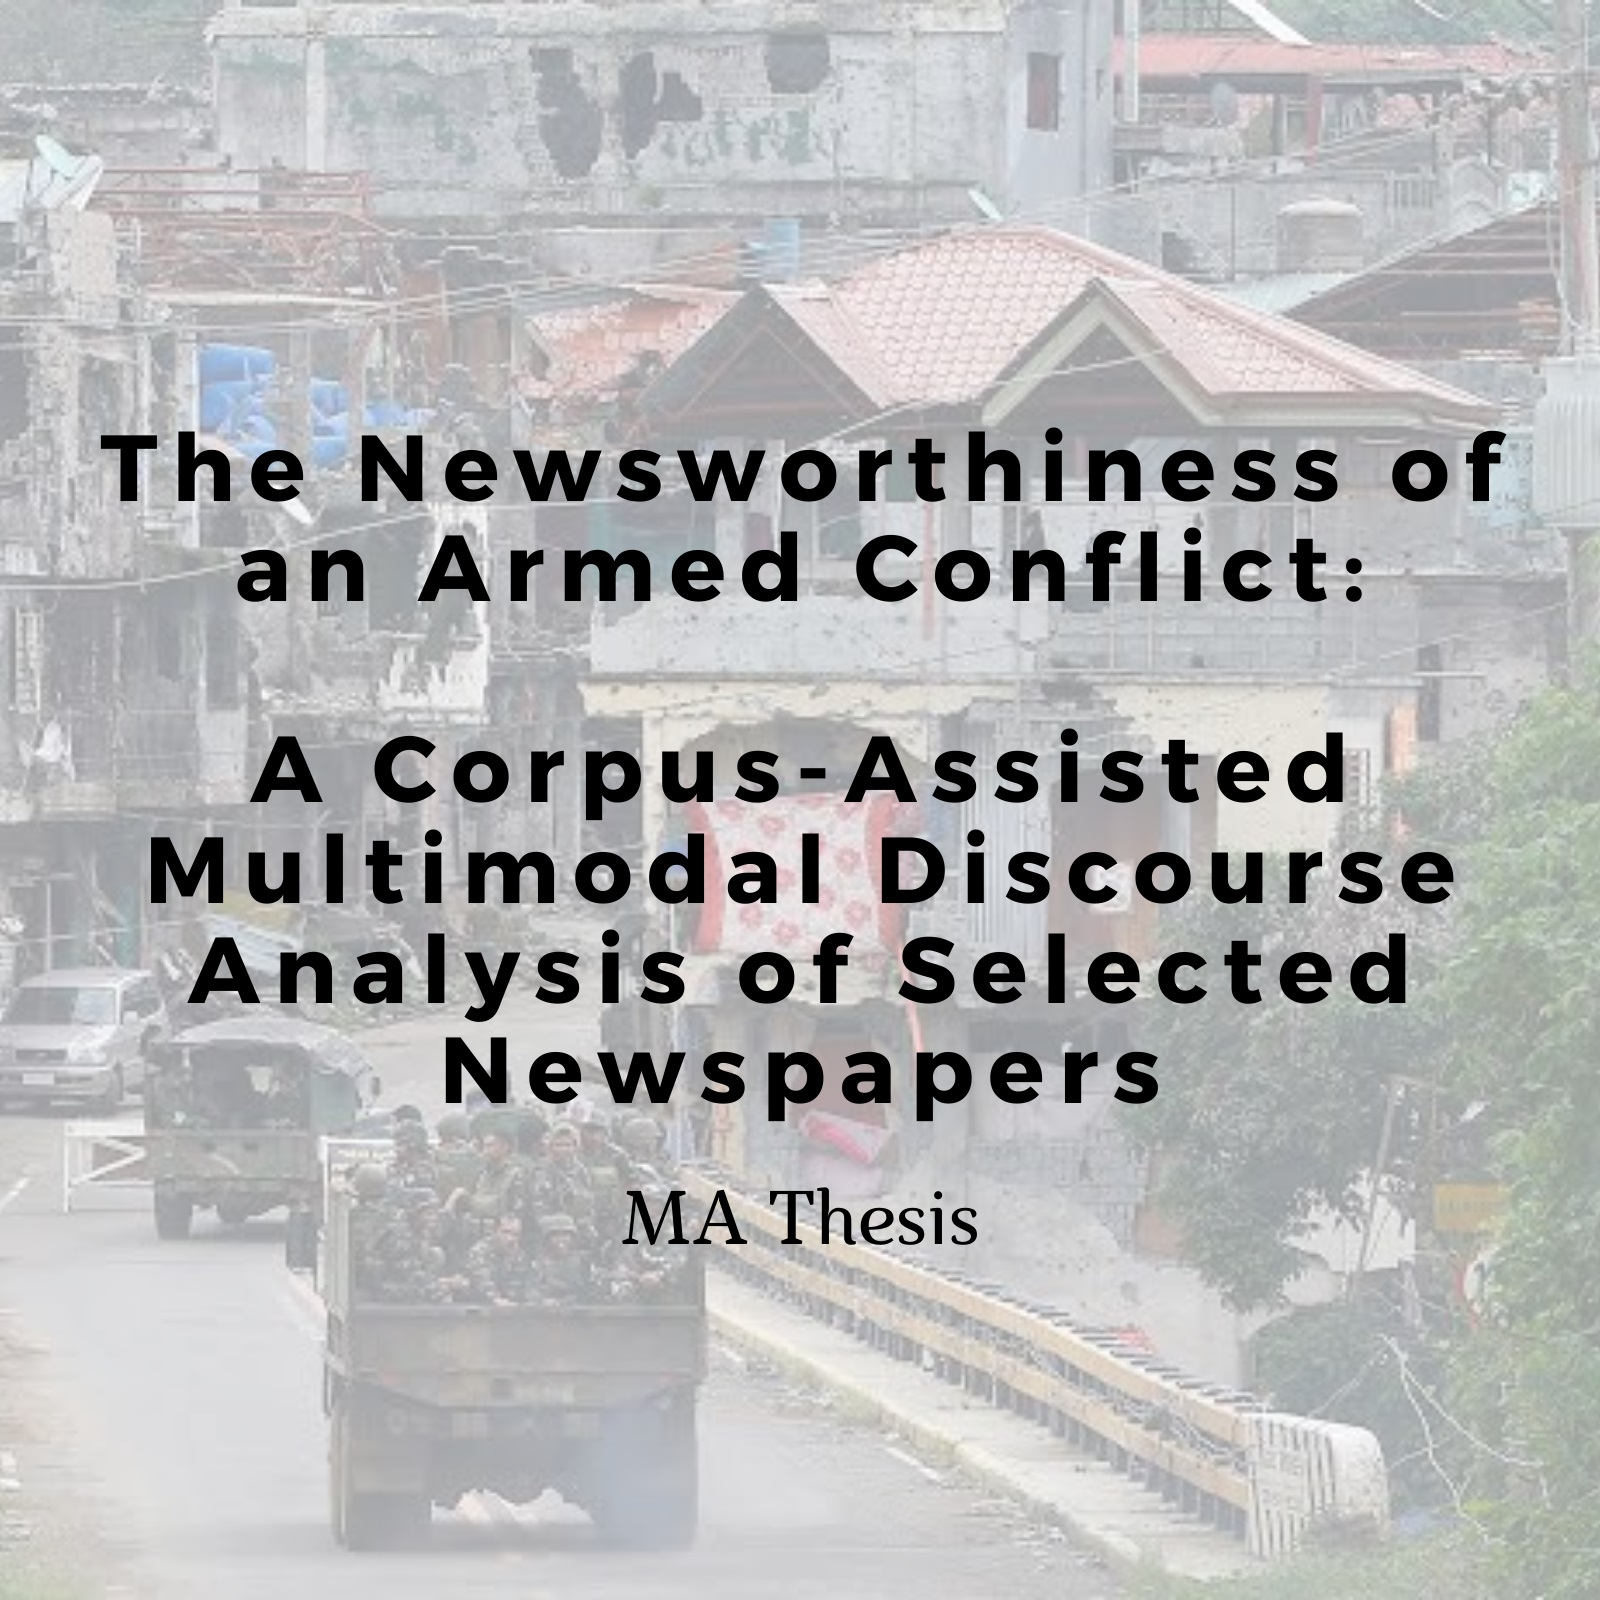
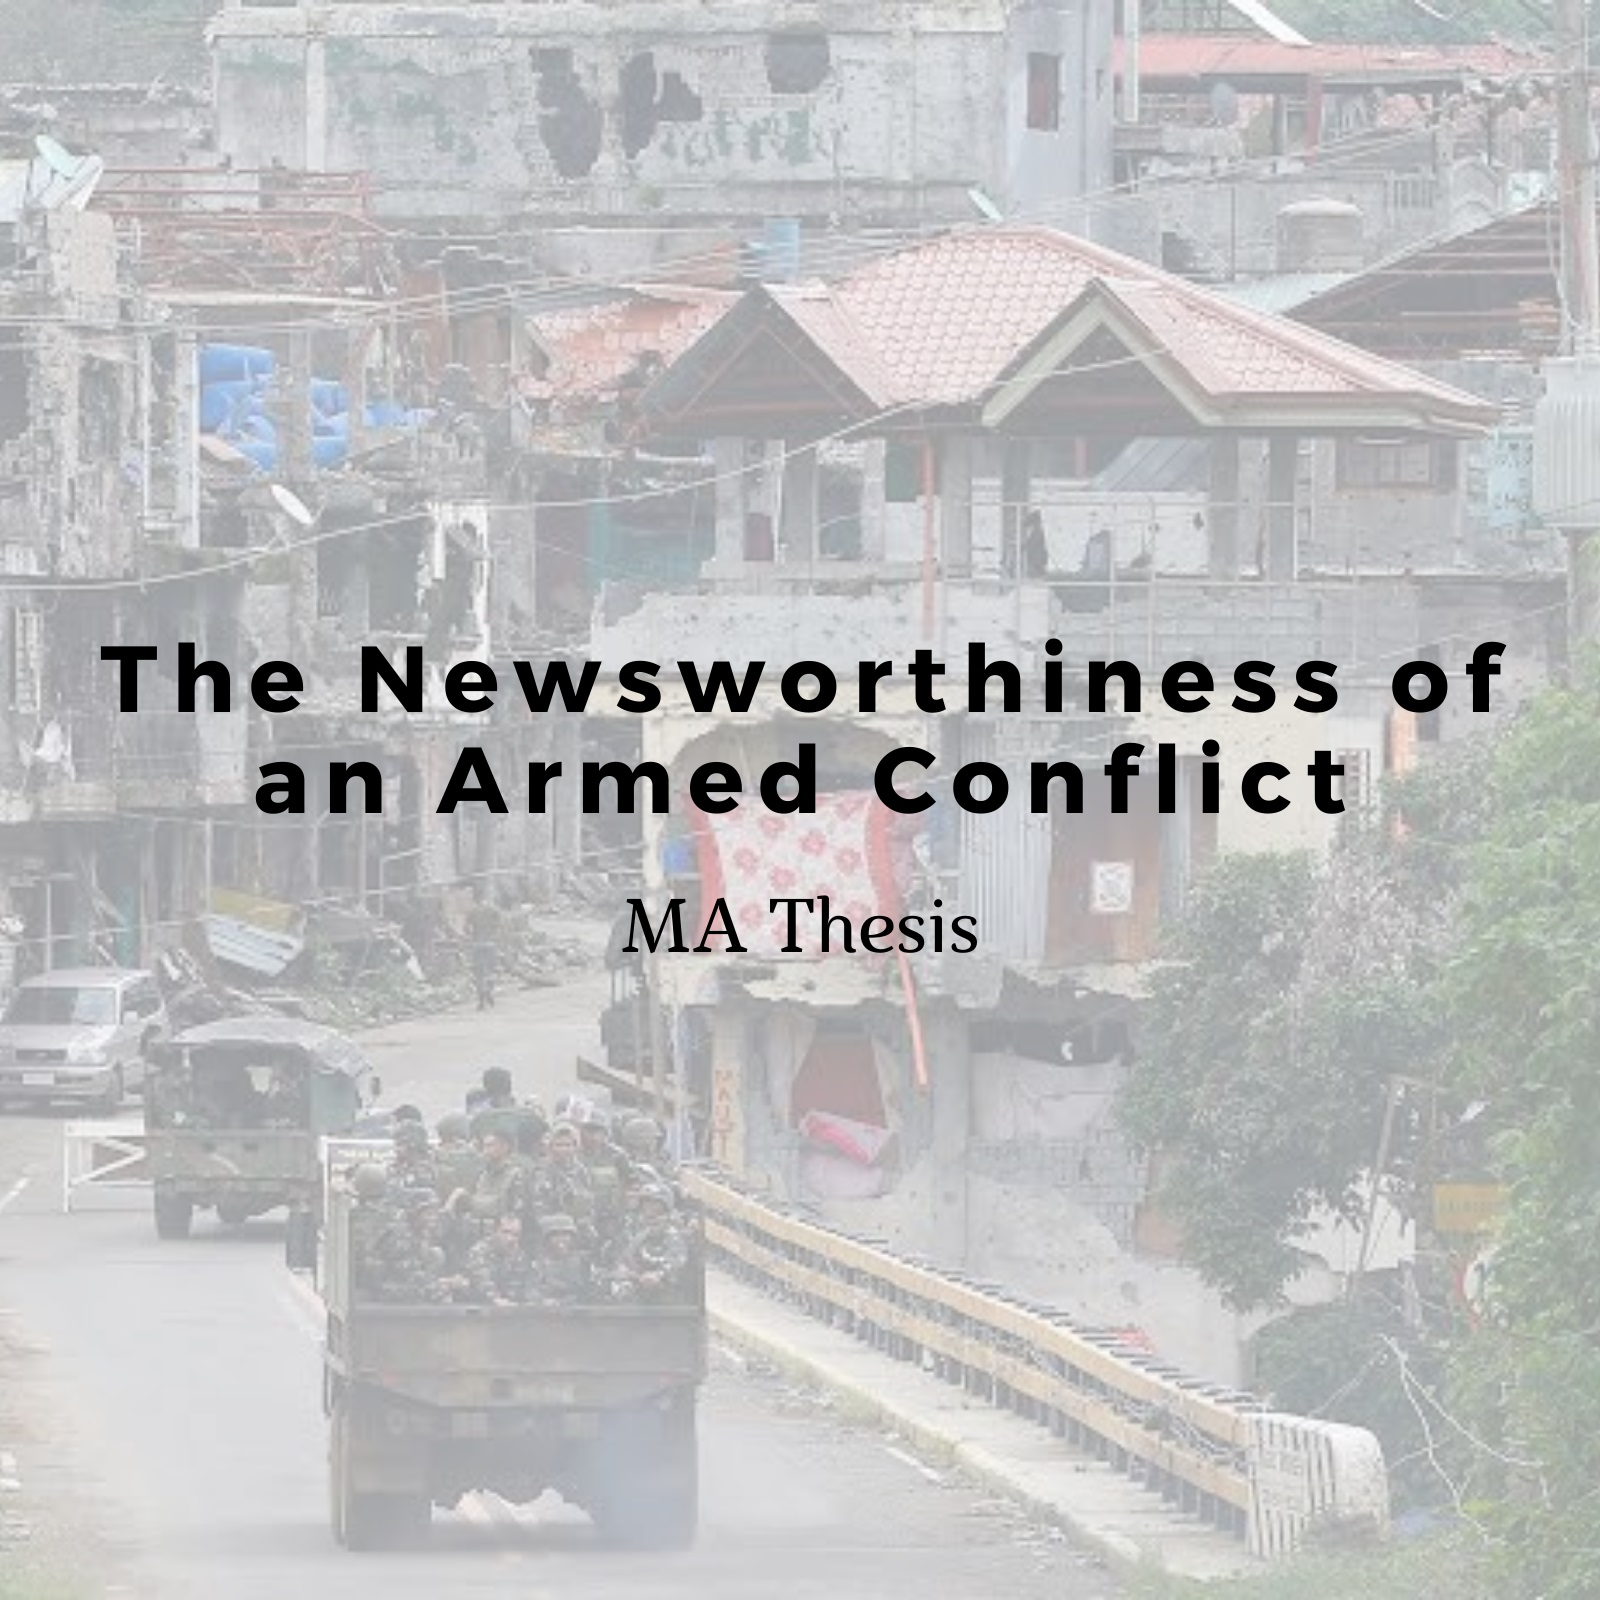
revisions june 16

diff --git a/_projects/2020-07-20-dnva-marawi-siege.md b/_projects/2020-07-20-dnva-marawi-siege.md
@@ -1,26 +1,30 @@
 ---
-title: 'The Newsworthiness of an Armed Conflict - A Corpus-Assisted Multimodal Discourse Analysis of Selected Newspaper Reports'
-subtitle: 'MA Thesis, The Graduate School, University of Santo Tomas'
+title: 'The Newsworthiness of an Armed Conflict'
+subtitle: 'A Corpus-Assisted Multimodal Discourse Analysis of Selected Newspaper Reports'
 date: 2018-06-30 00:00:00
 featured_image: '/images/projects/marawidnva.jpg'
 ---
 
+This project was my thesis for my Master of Arts degree in English Language Studies at the University of Santo Tomas Graduate School. It received a *Benemeritus* distinction during the defense proceedings. 
+
 **Supervisor:** Dr. Rachelle B. Lintao
 
 **Committee:** Drs. Marilu R. Madrunio (chair), Alejandro S. Bernardo, and Eden R. Flores (external reader, De La Salle University)
-
-**Awarded *Benemeritus* (with distinction) after the defense**
 
 ### Abstract 
 The reporting of both terrorism and conflicts is extensively investigated in past media discourse studies across contexts. However, a dearth in the literature exists regarding newsworthiness and its establishment in various forms of news discourse. Based on this niche, this thesis sought to closely examine how the 2017 Marawi City siege is constructed in print news reports as newsworthy. Specifically, it was aimed at determining (a) the linguistic and visual resources used to construe newsworthiness, (b) the news values used to construe the event’s newsworthiness, and (c) the existing multimodal relationship between language and images. Sixty news reports from three Philippine broadsheets were analyzed using Bednarek and Caple’s (2017) discursive news values framework. This multimodal corpus was examined with multiple methods, namely: (a) collocation analysis of MARAWI and its top three first order collocates, (b) manual analysis of verbal and visual devices utilized for each news value, and (c) the verbal and visual relationship in terms of each discursive news value. A scrutiny of the corpus reveals how local broadsheet journalists constructed the crisis as newsworthy. Firstly, MARAWI is associated closely with collocates that establish Proximity, Negativity, Eliteness, Personalization, Timeliness, Positivity, and Consonance; through collocates *city, said, and Maute*, recurring second order collocates of Negativity and Eliteness were largely identified. Regarding the manual analysis of texts and images, a range of verbal and visual devices were identified to construct news values except for Aesthetic Appeal. Secondly, an intrasemiotic assessment of news value trends in both verbal and visual data reveal that while the former constructs a concrete set of news values (i.e., Proximity, Timeliness, Superlativeness, and Eliteness), images appear to lack this feature. Lastly, when assessed for their multimodal relationship, texts and images appear to exhibit harmony, where texts and images complement news values with each other. How the crisis’ newsworthiness is constructed in the corpus is believed to have implications on news reporting principles and the role of the media in shaping public awareness of events. 
 
 **Keywords:** Marawi City, terrorism, news values, news discourse, corpus-assisted multimodal discourse analysis (CAMDA), press photography
 
-### Other Information
-Download my thesis [here](https://senseigab.github.io/research/Gapas2020-ThesisMA.pdf). You can also download this work in my ResearchGate and Academia.edu profile. 
+### Download the Paper
+Download my thesis [here](https://senseigab.github.io/research/Gapas2020-ThesisMA.pdf). You can also download this work in my ResearchGate and Academia.edu profile. Please cite this paper using the American Psychological Association style: 
 
-If you would like to obtain a copy of my corpus, please contact me. I cannot post my data publicly due to potential copyright issues. 
+Gapas, W. G. A. (2020). *The newsworthiness of an armed conflict: A corpus-assisted multimodal discourse analysis of selected newspaper reports* (Unpublished master's thesis). University of Santo Tomas, Manila.
 
+### Data Information
+If you would like to obtain a copy of my corpus, please contact me by email. I cannot post my data publicly due to potential copyright issues. 
+
+### Kaleidographic View of the Corpus
 To view the Kaleidographic view of my corpus, please click [here](https://senseigab.github.io/projects/kaleidograph_mcc/index.html).
 
 **Note: This link to the Kaleidographic differs from the one provided in the paper.** 
